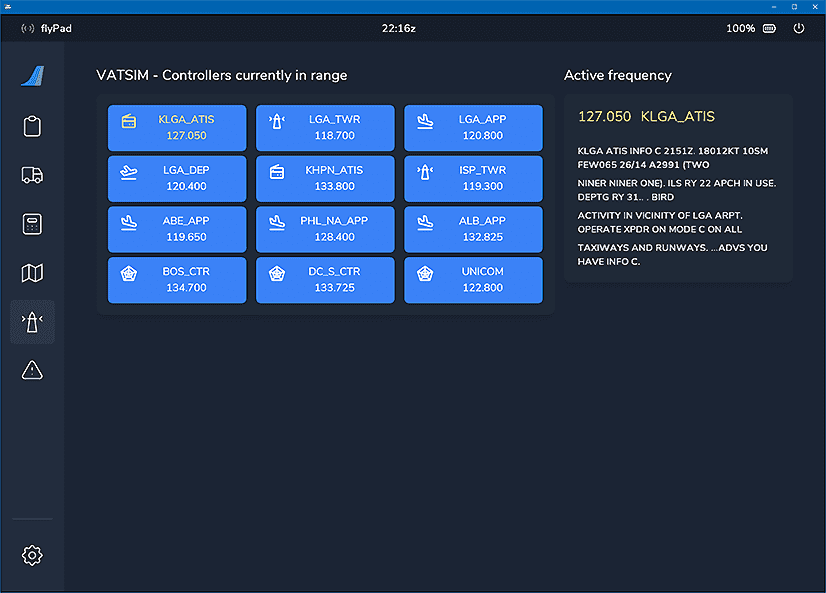
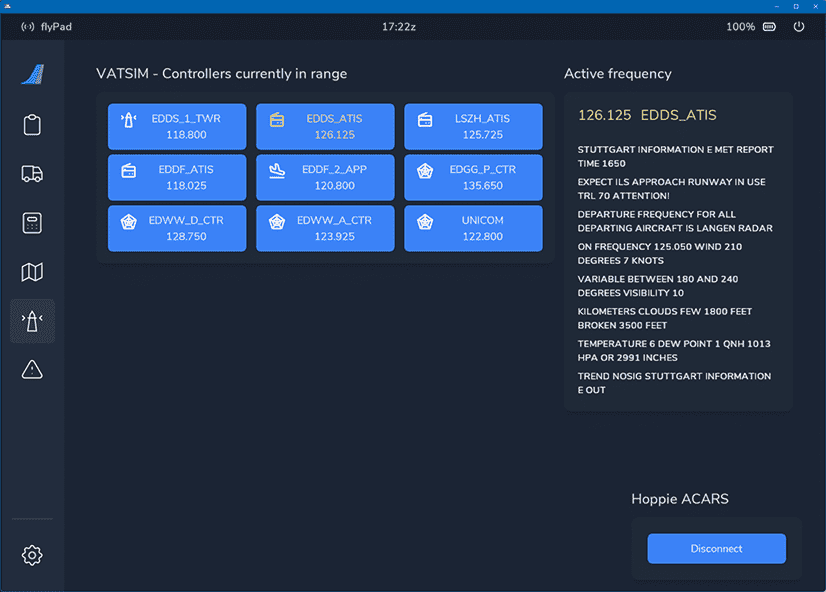
Updated EFB Online ATC page for Hoppie ACARS

diff --git a/docs/fbw-a32nx/feature-guides/flyPad/online-atc.md b/docs/fbw-a32nx/feature-guides/flyPad/online-atc.md
@@ -23,6 +23,8 @@ It lists all currently available ATC stations which can then be activated in the
 
 ## Usage
 
+### Changing Frequencies
+
 Go to the flyPad [ATSU/AOC settings page](settings.md#atsuaoc) and select your Online ATC service.
 
 !!! warning ""
@@ -31,3 +33,7 @@ Go to the flyPad [ATSU/AOC settings page](settings.md#atsuaoc) and select your O
 Go back to the ATC page and see the list of the currently available ATC stations. Click on a station to set this frequency in the Captain's RMP.
 
 ![Online ATC Frequency via click](../../assets/flypad/online-atc-frequency.png "Online ATC Frequency via click"){loading=lazy}
+
+### Using Hoppie ACARS
+
+See documentation for [Hoppie ACARS](../hoppie.md)
